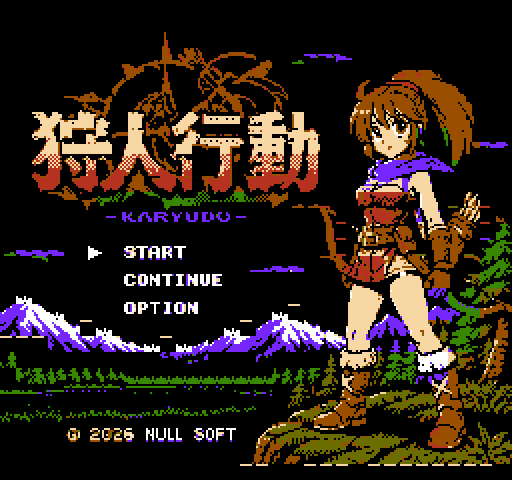
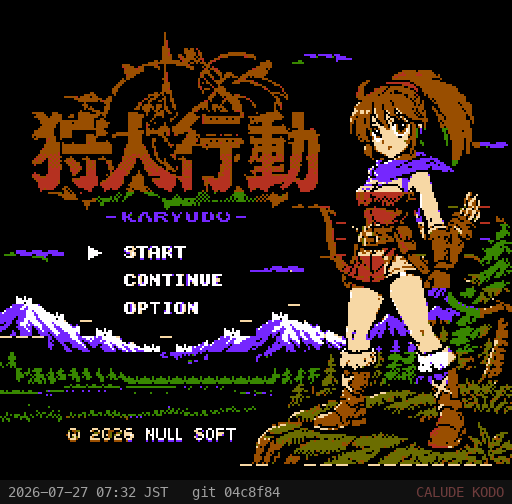
READMEスクリーンショット更新 (2026-07-27, git 04c8f84 焼き込み)

diff --git a/tools/capture_screens.js b/tools/capture_screens.js
@@ -54,7 +54,7 @@ const save = (m, name) => {
   run(2, 0x08); run(1, 0);
   w = 0; while (zp(A.game_state) !== 6 && w < 500) { m._nes_frame(); w++; }
   while (zp(A.game_state) === 6) m._nes_frame();
-  for (let wx = 120; wx < 860; wx += 4) {              // 無敵テレポート歩行
+  for (let wx = 120; wx < 780; wx += 4) {              // 無敵テレポート歩行 (ボス手前で停止)
     ram()[A.world_x_lo] = wx & 255; ram()[A.world_x_hi] = wx >> 8;
     ram()[A.player_y] = 168; ram()[A.on_ground] = 1;
     ram()[A.vel_y_lo] = 0; ram()[A.vel_y_hi] = 0;
@@ -62,8 +62,11 @@ const save = (m, name) => {
     m._nes_frame();
   }
   ram()[A.star_timer] = 0;
-  run(40, 0);                                          // ボスが跳ぶのを待つ
-  run(1, 0x02); run(8, 0);                             // 弓を構えた瞬間
+  run(1, 0x02); run(6, 0);                             // 弓を構える
+  for (let i = 0; i < 240; i++) {                      // ボスが画面内かつ点滅オフのフレームを待つ
+    m._nes_frame();
+    if (ram()[0x200 + 192] !== 0xFF) break;            // ボス OAM 先頭の Y が有効
+  }
   save(m, 'boss');
   console.log('captured: title/jump/boss, boss_state=' + zp(A.boss_state));
 })();
